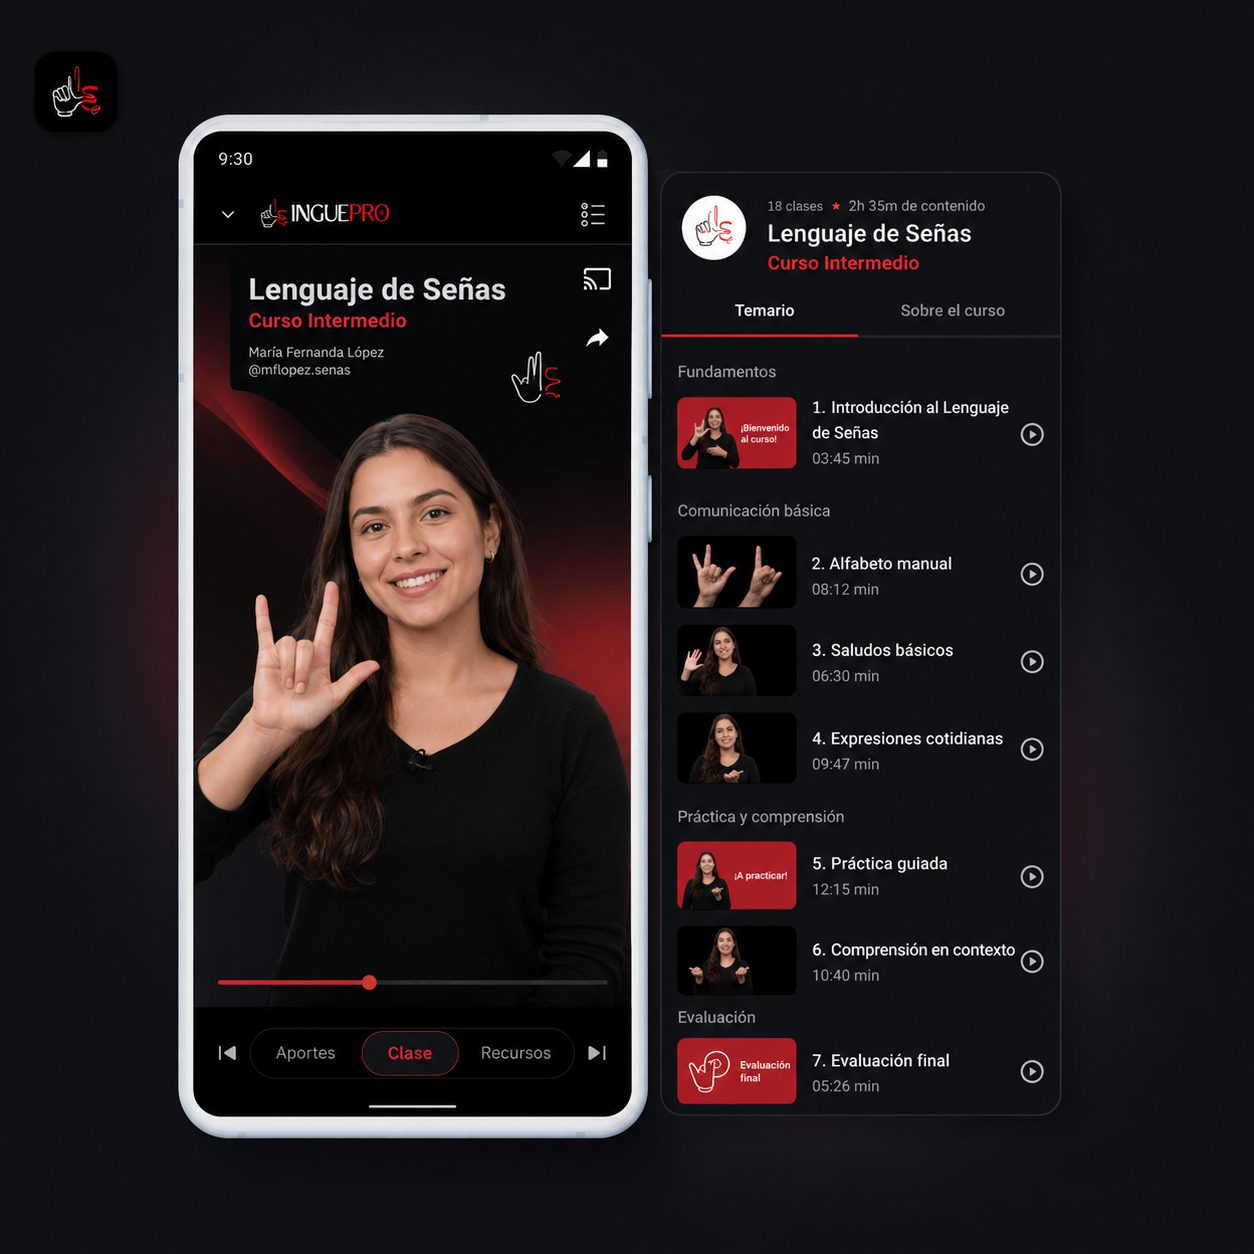
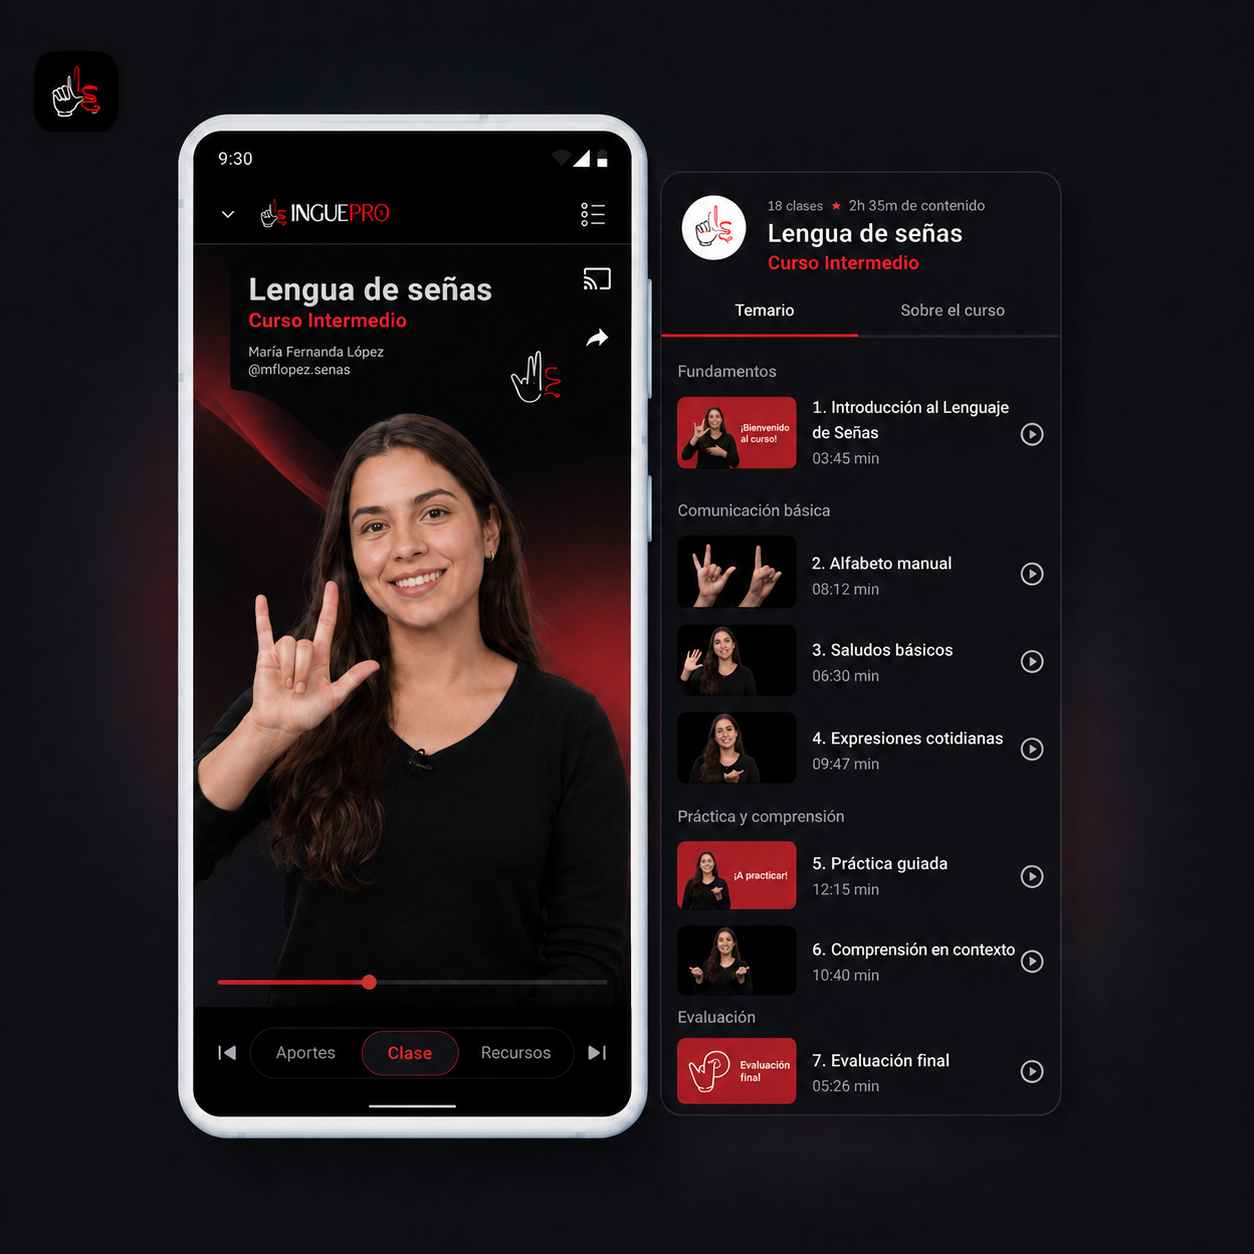
arreglo

diff --git a/data/courses.js b/data/courses.js
@@ -102,7 +102,7 @@ export const courses = [
     tag: "Speaking",
   },
   {
-    title: "Lengua de Senas",
+    title: "Lengua de Señas",
     category: "habilidades",
     description: "Aprende comunicacion inclusiva con ejercicios visuales y practicos.",
     duration: "10 semanas",
@@ -238,7 +238,7 @@ export const testimonials = [
   },
   {
     name: "Camila R.",
-    role: "Lengua de Senas",
+    role: "Lengua de Señas",
     quote:
       "El enfoque inclusivo se nota desde el primer modulo. Aprendi con recursos visuales y acompanamiento constante.",
   },

diff --git a/components/LearningExperienceSection.jsx b/components/LearningExperienceSection.jsx
@@ -15,7 +15,7 @@ const benefits = [
   ["Clases practicas y guiadas", PlayCircle],
   ["Campus virtual disponible 24/7", Clock3],
   ["Cursos de idiomas y habilidades profesionales", Languages],
-  ["Educacion inclusiva con lengua de senas", CheckCircle2],
+  ["Educacion inclusiva con lengua de señas", CheckCircle2],
   ["Actividades, tareas y evaluaciones", ClipboardList],
   ["Certificados al completar tus cursos", Award],
   ["Acceso desde celular, tablet o computadora", MonitorSmartphone],

diff --git a/app/layout.js b/app/layout.js
@@ -5,7 +5,7 @@ import Header from "@/components/Header";
 export const metadata = {
   title: "LinguePro | Academia online",
   description:
-    "Formacion online en idiomas, lengua de senas y habilidades profesionales con campus virtual Moodle.",
+    "Formacion online en idiomas, lengua de señas y habilidades profesionales con campus virtual Moodle.",
 };
 
 export default function RootLayout({ children }) {
